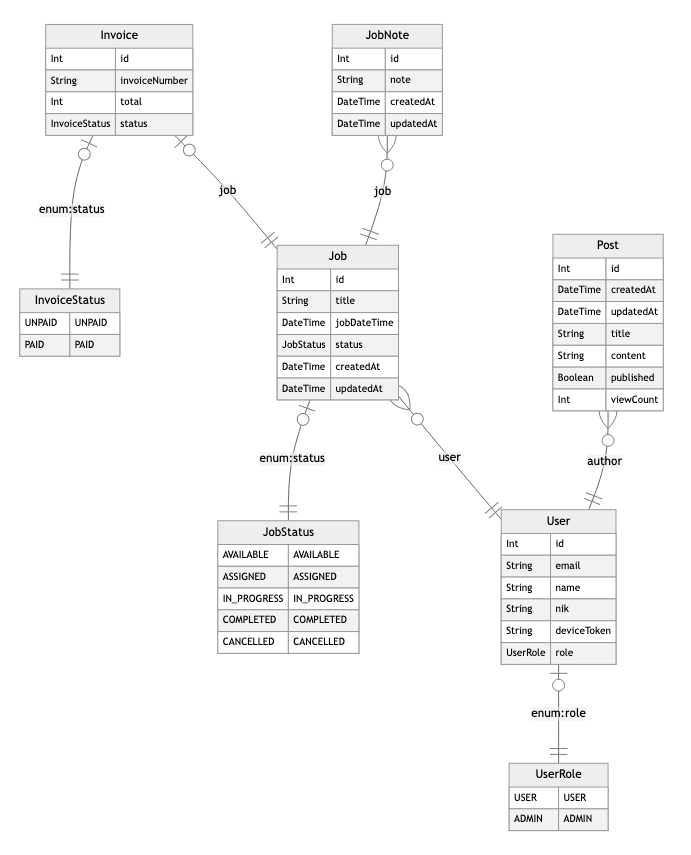
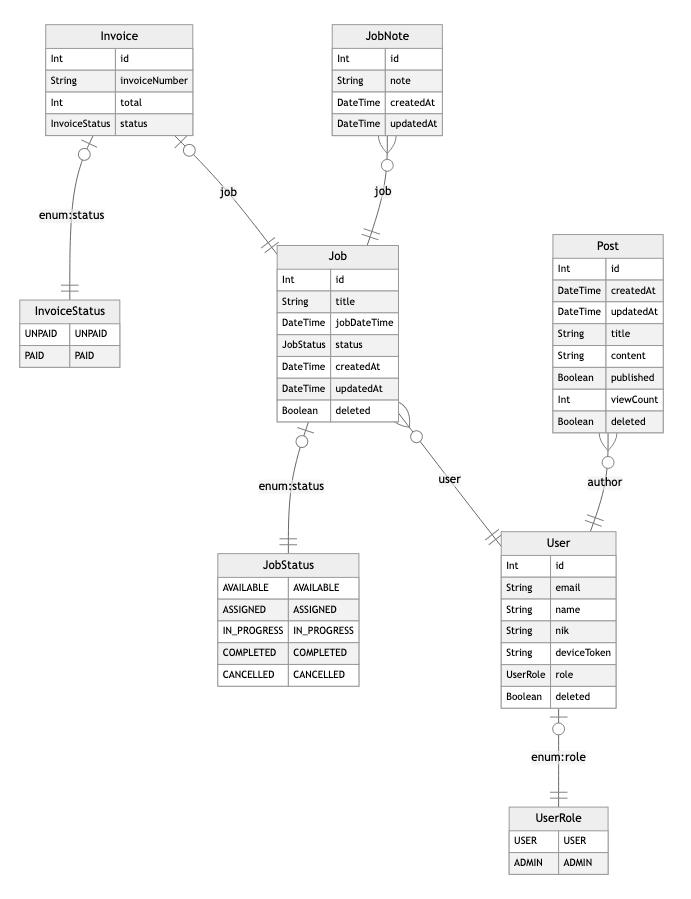
feat: transaction and soft delete

diff --git a/src/posts/posts.service.ts b/src/posts/posts.service.ts
@@ -75,6 +75,40 @@ export class PostsService {
     });
   }
 
+  async createSome(email: string, amount: number) {
+    await this.prisma.$transaction(async (prisma) => {
+      const author = await prisma.user.findUnique({ where: { email } });
+
+      if (!author) {
+        throw new Error(`${email} not found`);
+      }
+
+      const post = await prisma.post.update({
+        data: {
+          viewCount: {
+            increment: amount,
+          },
+        },
+        where: {
+          id: 1,
+        },
+      });
+
+      if (post.viewCount < 0) {
+        throw new Error(`${email} doesn't have enough to send ${amount}`);
+      }
+
+      await prisma.user.update({
+        data: {
+          deviceToken: new Date().toString(),
+        },
+        where: {
+          email: email,
+        },
+      });
+    });
+  }
+
   async updatePost(params: {
     where: Prisma.PostWhereUniqueInput;
     data: Prisma.PostUpdateInput;

diff --git a/README.md b/README.md
@@ -14,7 +14,10 @@ NestJS, Prisma, Postgres
 
 ### Migration :
 - make change schema.prisma
+- dev/local :
 - > npx prisma migrate dev
+- prod :
+- > npx prisma migrate deploy
 - reset db dev and run seed
 - > npx prisma migrate reset
 
